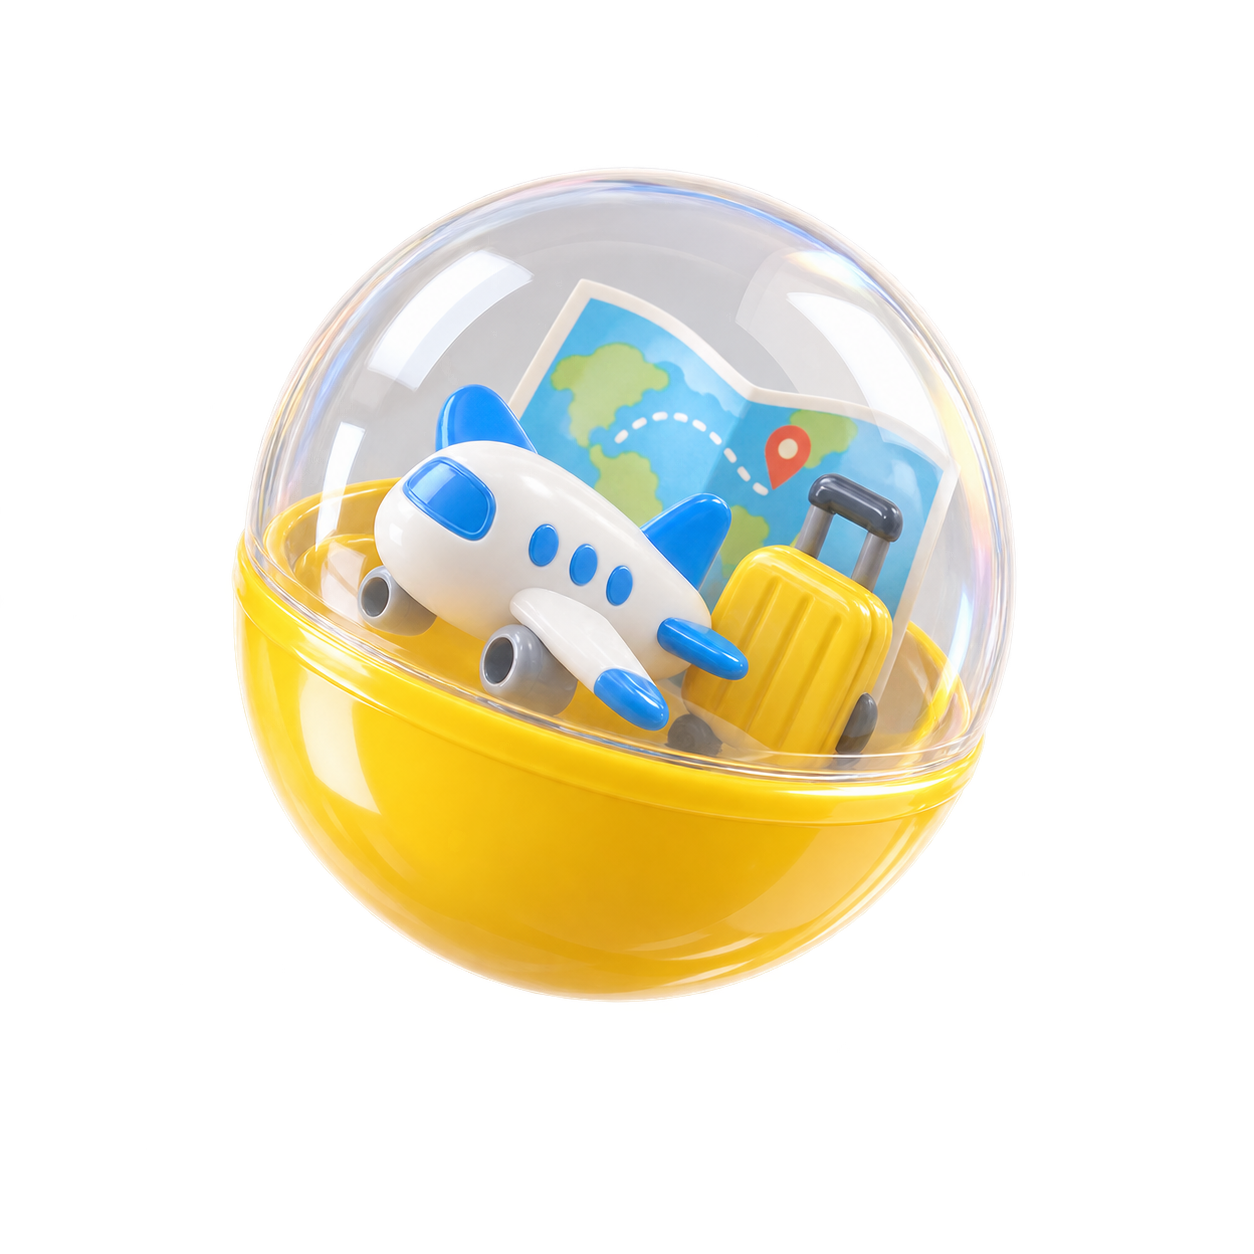
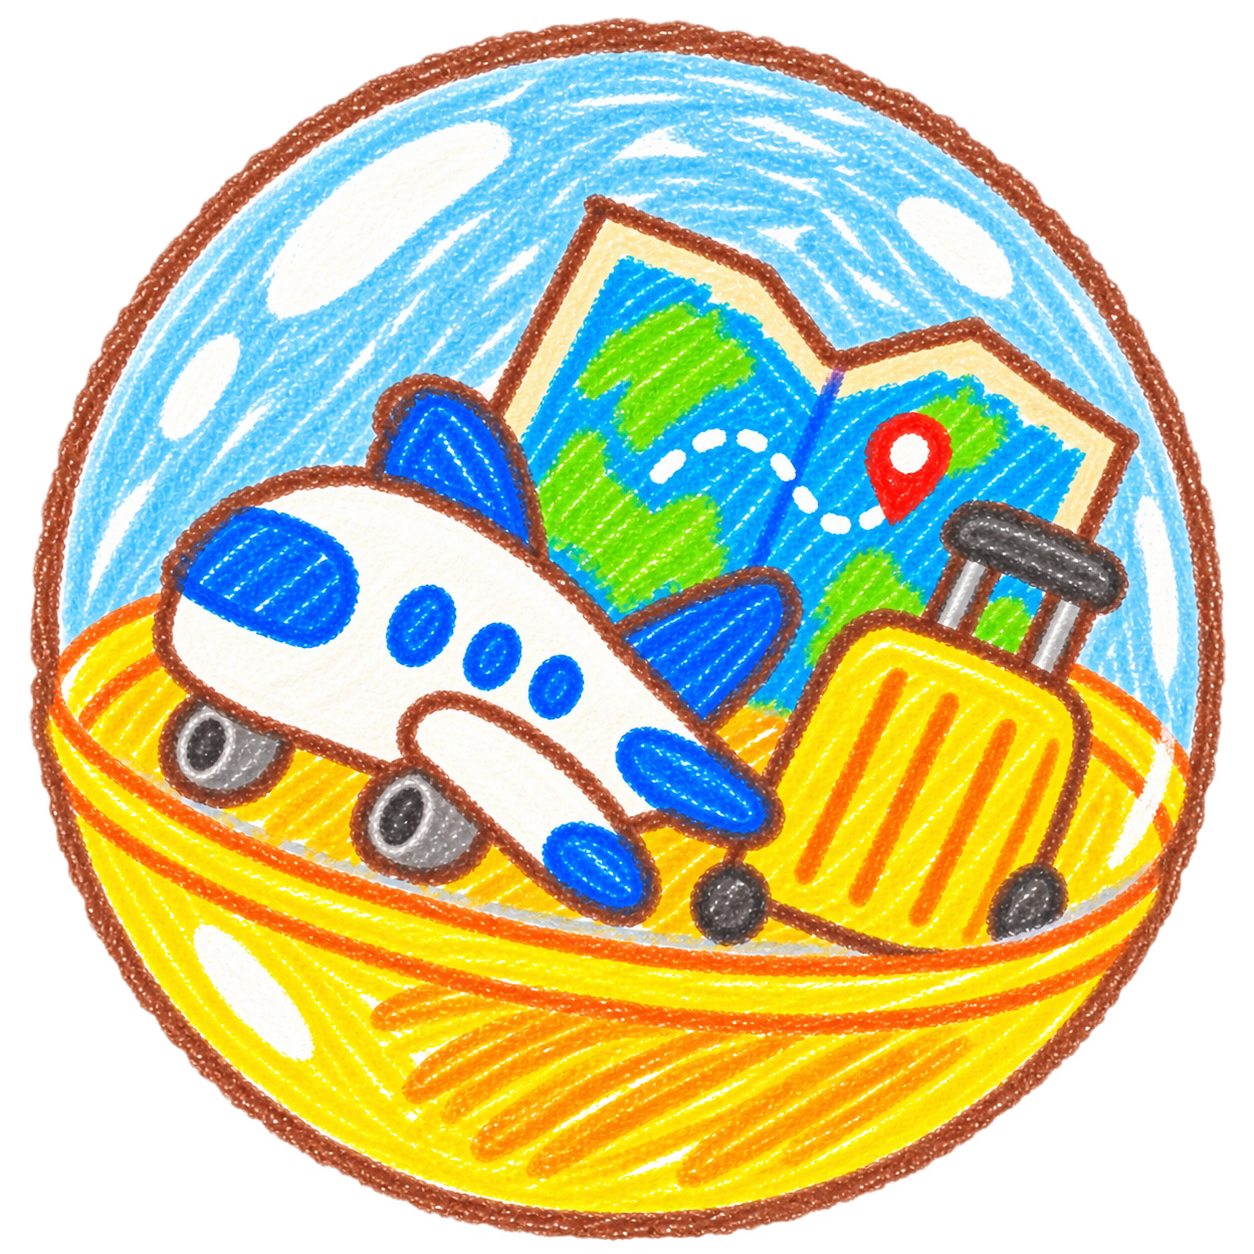
0831

diff --git a/lib/gacha_screen.dart b/lib/gacha_screen.dart
@@ -1,5 +1,4 @@
 import 'package:flutter/material.dart';
-import 'dart:async';
 import 'main_screen.dart';
 import 'recommendation_service.dart';
 import 'saved_region_service.dart';
@@ -14,32 +13,9 @@ class GachaScreen extends StatefulWidget {
 }
 
 class _GachaScreenState extends State<GachaScreen>
-    with TickerProviderStateMixin {
-  // --- 기존 가챠 배경 애니메이션용 변수들 ---
-  static const double _capsuleSize = 50;
-  static const List<String> _capsuleAssets = [
-    'assets/images/gacha_capsule.png',
-    'assets/images/gacha_capsule2.png',
-    'assets/images/gacha_capsule3.png',
-    'assets/images/gacha_capsule4.png',
-  ];
+    with SingleTickerProviderStateMixin {
   late AnimationController _shakeController;
   late Animation<double> _shakeAnimation;
-  late AnimationController _backgroundController;
-  final List<double> _capsuleAngles = List.filled(8, 0);
-  final List<Offset> _capsulePositions = [];
-  final List<Offset> _capsuleVelocities = [
-    const Offset(30, 22),
-    const Offset(-24, 32),
-    const Offset(28, -26),
-    const Offset(-32, -20),
-    const Offset(20, 30),
-    const Offset(-28, 24),
-    const Offset(32, -22),
-    const Offset(-22, -30),
-  ];
-  Duration _lastBackgroundTick = Duration.zero;
-  Size _backgroundSize = Size.zero;
 
   // --- 🌟 연출 흐름을 제어하는 상태 변수들 ---
   double _turns = 0.0;
@@ -58,97 +34,12 @@ class _GachaScreenState extends State<GachaScreen>
         vsync: this, duration: const Duration(milliseconds: 50));
     _shakeAnimation =
         Tween<double>(begin: -4.0, end: 4.0).animate(_shakeController);
-    _backgroundController =
-        AnimationController(vsync: this, duration: const Duration(days: 1))
-          ..repeat();
   }
 
   @override
   void dispose() {
     _shakeController.dispose();
-    _backgroundController.dispose();
     super.dispose();
-  }
-
-  // --- 배경 캡슐 로직 (기존과 동일) ---
-  void _initializeCapsules(Size size) {
-    const startingPoints = [
-      Offset(0.05, 0.08),
-      Offset(0.72, 0.12),
-      Offset(0.25, 0.28),
-      Offset(0.82, 0.34),
-      Offset(0.08, 0.55),
-      Offset(0.62, 0.58),
-      Offset(0.32, 0.78),
-      Offset(0.78, 0.84),
-    ];
-    final maxX = (size.width - _capsuleSize).clamp(0.0, double.infinity);
-    final maxY = (size.height - _capsuleSize).clamp(0.0, double.infinity);
-    _capsulePositions
-      ..clear()
-      ..addAll(startingPoints
-          .map((point) => Offset(point.dx * maxX, point.dy * maxY)));
-    _backgroundSize = size;
-    _lastBackgroundTick = Duration.zero;
-  }
-
-  void _moveCapsules(Size size) {
-    if (_capsulePositions.isEmpty || size != _backgroundSize)
-      _initializeCapsules(size);
-    final elapsed = _backgroundController.lastElapsedDuration ?? Duration.zero;
-    if (_lastBackgroundTick == Duration.zero) {
-      _lastBackgroundTick = elapsed;
-      return;
-    }
-    final seconds = ((elapsed - _lastBackgroundTick).inMicroseconds / 1000000)
-        .clamp(0.0, 0.05);
-    _lastBackgroundTick = elapsed;
-    final maxX = (size.width - _capsuleSize).clamp(0.0, double.infinity);
-    final maxY = (size.height - _capsuleSize).clamp(0.0, double.infinity);
-
-    for (var i = 0; i < _capsulePositions.length; i++) {
-      var position = _capsulePositions[i] + _capsuleVelocities[i] * seconds;
-      var velocity = _capsuleVelocities[i];
-      if (position.dx <= 0 || position.dx >= maxX) {
-        velocity = Offset(-velocity.dx, velocity.dy);
-        position = Offset(position.dx.clamp(0.0, maxX), position.dy);
-      }
-      if (position.dy <= 0 || position.dy >= maxY) {
-        velocity = Offset(velocity.dx, -velocity.dy);
-        position = Offset(position.dx, position.dy.clamp(0.0, maxY));
-      }
-      _capsulePositions[i] = position;
-      _capsuleVelocities[i] = velocity;
-      _capsuleAngles[i] += 0.18 * seconds;
-    }
-  }
-
-  Widget _buildCapsuleBackground() {
-    return LayoutBuilder(
-      builder: (context, constraints) {
-        final size = constraints.biggest;
-        return AnimatedBuilder(
-          animation: _backgroundController,
-          builder: (context, child) {
-            _moveCapsules(size);
-            return Stack(
-              clipBehavior: Clip.hardEdge,
-              children: List.generate(8, (index) {
-                return Positioned(
-                  left: _capsulePositions[index].dx,
-                  top: _capsulePositions[index].dy,
-                  child: Transform.rotate(
-                    angle: _capsuleAngles[index],
-                    child: Image.asset(_capsuleAssets[index ~/ 2],
-                        width: _capsuleSize, height: _capsuleSize),
-                  ),
-                );
-              }),
-            );
-          },
-        );
-      },
-    );
   }
 
   // 🌟 [핵심 로직] 순차적인 애니메이션 흐름
@@ -251,7 +142,7 @@ class _GachaScreenState extends State<GachaScreen>
   @override
   Widget build(BuildContext context) {
     return Scaffold(
-      backgroundColor: const Color(0xFFFDECB3),
+      backgroundColor: const Color(0xFFFBF9F4),
       appBar: AppBar(
         title:
             const Text("운명의 여행지 뽑기", style: TextStyle(color: Colors.black87)),
@@ -261,10 +152,13 @@ class _GachaScreenState extends State<GachaScreen>
       ),
       body: Stack(
         children: [
-          // 1. [맨 뒷배경] 떠다니는 캡슐들
-          Positioned.fill(child: _buildCapsuleBackground()),
-
-          // 2. [중간층] 덜덜 떨리는 가챠 기계 본체
+          Positioned.fill(
+            child: Image.asset(
+              'assets/images/gacha_bg.png',
+              fit: BoxFit.cover,
+            ),
+          ),
+          // 덜덜 떨리는 가챠 기계 본체
           Center(
             child: AnimatedBuilder(
               animation: _shakeAnimation,
@@ -281,7 +175,7 @@ class _GachaScreenState extends State<GachaScreen>
                   clipBehavior: Clip.none,
                   children: [
                     Positioned(
-                      top: 0,
+                      top: 50,
                       left: 0,
                       right: 0,
                       child: Image.asset('assets/images/gacha_machine.png',
@@ -291,7 +185,7 @@ class _GachaScreenState extends State<GachaScreen>
                     AnimatedPositioned(
                       duration: const Duration(milliseconds: 800),
                       curve: Curves.bounceOut,
-                      top: _isDropped ? 400 : 370,
+                      top: _isDropped ? 450 : 420,
                       left: 217,
                       child: AnimatedOpacity(
                         duration: const Duration(milliseconds: 150),
@@ -304,8 +198,8 @@ class _GachaScreenState extends State<GachaScreen>
                     ),
                     // 손잡이
                     Positioned(
-                      top: 280,
-                      left: 113,
+                      top: 300,
+                      left: 101,
                       child: GestureDetector(
                         onTap: _isSpinning ? null : _spinGacha,
                         child: AnimatedRotation(
@@ -313,7 +207,7 @@ class _GachaScreenState extends State<GachaScreen>
                           duration: const Duration(seconds: 1),
                           curve: Curves.easeInOut,
                           child: Image.asset('assets/images/gacha_handle.png',
-                              width: 104),
+                              width: 116),
                         ),
                       ),
                     ),
@@ -391,7 +285,7 @@ class _GachaScreenState extends State<GachaScreen>
                             const SizedBox(width: 20),
                             ElevatedButton(
                               style: ElevatedButton.styleFrom(
-                                backgroundColor: const Color(0xFFFEE500),
+                                backgroundColor: const Color(0xFFEBE6D9),
                                 foregroundColor: Colors.black87,
                                 padding: const EdgeInsets.symmetric(
                                     horizontal: 30, vertical: 15),
@@ -451,15 +345,21 @@ class _GachaScreenState extends State<GachaScreen>
             // (이제 400x200 도화지 기준으로 맞추면, 화면이 작아져도 위치가 같이 줄어들어서 절대 안 어긋납니다!)
             Positioned(
               top: 85,
-              left: 0,
-              right: 25,
-              child: Text(
-                destination,
-                textAlign: TextAlign.center,
-                style: const TextStyle(
-                    fontSize: 40,
-                    fontWeight: FontWeight.bold,
-                    color: Colors.black87),
+              left: 85,
+              right: 85,
+              height: 50,
+              child: FittedBox(
+                fit: BoxFit.scaleDown,
+                alignment: Alignment.center,
+                child: Text(
+                  destination,
+                  maxLines: 1,
+                  softWrap: false,
+                  style: const TextStyle(
+                      fontSize: 40,
+                      fontWeight: FontWeight.bold,
+                      color: Colors.black87),
+                ),
               ),
             ),
 

diff --git a/lib/auth_service.dart b/lib/auth_service.dart
@@ -5,6 +5,7 @@ import 'package:shared_preferences/shared_preferences.dart';
 
 class AuthService {
   static const _authUrl = 'https://soomtrip-api.cspc.me/auth/kakao';
+  static const _meUrl = 'https://soomtrip-api.cspc.me/users/me';
   static const _jwtKey = 'soomtrip_access_token';
 
   static Future<void> loginWithKakao(String kakaoAccessToken) async {
@@ -32,6 +33,31 @@ class AuthService {
 
     final preferences = await SharedPreferences.getInstance();
     await preferences.setString(_jwtKey, jwt);
+  }
+
+  static Future<void> updateNickname(String nickname) async {
+    final trimmedNickname = nickname.trim();
+    if (trimmedNickname.isEmpty) return;
+
+    final jwt = await getJwt();
+    if (jwt == null || jwt.isEmpty) {
+      throw Exception('로그인이 필요합니다.');
+    }
+
+    final response = await http
+        .patch(
+          Uri.parse(_meUrl),
+          headers: {
+            'Content-Type': 'application/json',
+            'Authorization': 'Bearer $jwt',
+          },
+          body: jsonEncode({'nickname': trimmedNickname}),
+        )
+        .timeout(const Duration(seconds: 15));
+
+    if (response.statusCode < 200 || response.statusCode >= 300) {
+      throw Exception('닉네임 동기화 실패 (${response.statusCode})');
+    }
   }
 
   static Future<bool> hasJwt() async {

diff --git a/lib/splash_screen.dart b/lib/splash_screen.dart
@@ -83,6 +83,17 @@ class _SplashScreenState extends State<SplashScreen> {
       // 카카오 토큰을 백엔드로 보내 SoomTrip JWT를 발급받아 저장합니다.
       await AuthService.loginWithKakao(token.accessToken);
 
+      // 카카오 프로필 닉네임을 SoomTrip 사용자 DB에도 동기화합니다.
+      try {
+        final kakaoUser = await UserApi.instance.me();
+        final nickname = kakaoUser.kakaoAccount?.profile?.nickname;
+        if (nickname != null && nickname.trim().isNotEmpty) {
+          await AuthService.updateNickname(nickname);
+        }
+      } catch (error) {
+        debugPrint('[Kakao Login] Nickname sync failed: $error');
+      }
+
       if (!mounted) return;
       _openWorldCup();
     } catch (_) {
